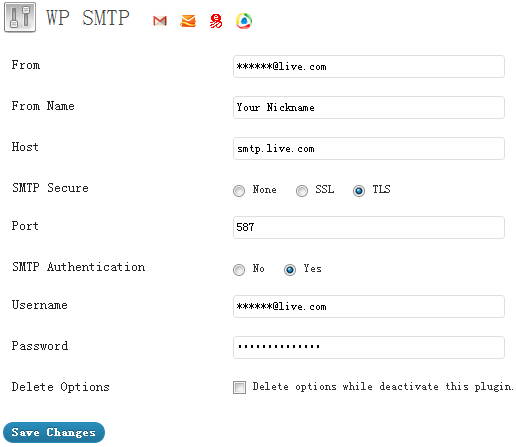
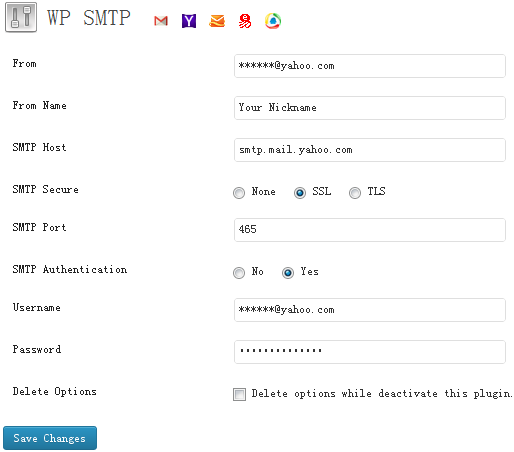
version 1.1.6

diff --git a/wp_smtp_admin.php b/wp_smtp_admin.php
@@ -21,10 +21,10 @@ function wp_smtp_page(){
 			echo '<div id="message" class="updated fade"><p><strong>' . __("The field \"From\" must be a valid email address!","WP-SMTP") . '</strong></p></div>';
 		}
 		elseif(empty($wsOptions["host"])){
-			echo '<div id="message" class="updated fade"><p><strong>' . __("The field \"Host\" can not be left blank!","WP-SMTP") . '</strong></p></div>';
+			echo '<div id="message" class="updated fade"><p><strong>' . __("The field \"SMTP Host\" can not be left blank!","WP-SMTP") . '</strong></p></div>';
 		}
 		else{
-			echo '<div id="message" class="updated fade"><p><strong>' . __("Options saved.") . '</strong></p></div>';
+			echo '<div id="message" class="updated fade"><p><strong>' . __("Options saved.","WP-SMTP") . '</strong></p></div>';
 		}
 	}
 	if(isset($_POST['wp_smtp_test'])){
@@ -40,7 +40,7 @@ function wp_smtp_page(){
 			}
 		}
 		else{
-			$failed = 1;
+			$failed = 2;
 		}
 		if(!$failed){
 			if($result==TRUE){
@@ -50,8 +50,11 @@ function wp_smtp_page(){
 				$failed = 1;
 			}
 		}
-		if($failed){
+		if($failed == 1){
 			echo '<div id="message" class="updated fade"><p><strong>' . __("Some errors occurred!","WP-SMTP") . '</strong></p></div>';
+		}
+		elseif($failed == 2){
+			echo '<div id="message" class="updated fade"><p><strong>' . __("The fields \"To\" \"Subject\" \"Message\" can not be left blank when testing!","WP-SMTP") . '</strong></p></div>';
 		}
 	}
 ?>
@@ -62,9 +65,10 @@ function wp_smtp_page(){
 WP SMTP
 <span style="margin-left:10px; vertical-align:middle;">
 <a href="<?php echo plugins_url('screenshot-1.png',__FILE__); ?>" target="_blank"><img src="<?php echo plugins_url('/img/gmail.png',__FILE__); ?>" alt="Gmail" title="Gmail" /></a>
-<a href="<?php echo plugins_url('screenshot-2.png',__FILE__); ?>" target="_blank"><img src="<?php echo plugins_url('/img/microsoft.png',__FILE__); ?>" alt="Microsoft" title="Microsoft" /></a>
-<a href="<?php echo plugins_url('screenshot-3.png',__FILE__); ?>" target="_blank"><img src="<?php echo plugins_url('/img/163.png',__FILE__); ?>" alt="163" title="163" /></a>
-<a href="<?php echo plugins_url('screenshot-4.png',__FILE__); ?>" target="_blank"><img src="<?php echo plugins_url('/img/qq.png',__FILE__); ?>" alt="QQ" title="QQ" /></a>
+<a href="<?php echo plugins_url('screenshot-2.png',__FILE__); ?>" target="_blank"><img src="<?php echo plugins_url('/img/yahoo.png',__FILE__); ?>" alt="Yahoo!" title="Yahoo!" /></a>
+<a href="<?php echo plugins_url('screenshot-3.png',__FILE__); ?>" target="_blank"><img src="<?php echo plugins_url('/img/microsoft.png',__FILE__); ?>" alt="Microsoft" title="Microsoft" /></a>
+<a href="<?php echo plugins_url('screenshot-4.png',__FILE__); ?>" target="_blank"><img src="<?php echo plugins_url('/img/163.png',__FILE__); ?>" alt="163" title="163" /></a>
+<a href="<?php echo plugins_url('screenshot-5.png',__FILE__); ?>" target="_blank"><img src="<?php echo plugins_url('/img/qq.png',__FILE__); ?>" alt="QQ" title="QQ" /></a>
 </span>
 </h2>
 
@@ -93,7 +97,7 @@ WP SMTP
 	</tr>
 	<tr valign="top">
 		<th scope="row">
-			<?php _e('Host','WP-SMTP'); ?>
+			<?php _e('SMTP Host','WP-SMTP'); ?>
 		</th>
 		<td>
 			<label>
@@ -124,7 +128,7 @@ WP SMTP
 	</tr>
 	<tr valign="top">
 		<th scope="row">
-			<?php _e('Port','WP-SMTP'); ?>
+			<?php _e('SMTP Port','WP-SMTP'); ?>
 		</th>
 		<td>
 			<label>

diff --git a/wp-smtp.php b/wp-smtp.php
@@ -3,7 +3,7 @@
 Plugin Name: WP SMTP
 Plugin URI: http://boliquan.com/wp-smtp/
 Description: WP SMTP can help us to send emails via SMTP instead of the PHP mail() function.
-Version: 1.1.5
+Version: 1.1.6
 Author: BoLiQuan
 Author URI: http://boliquan.com/
 Text Domain: WP-SMTP
